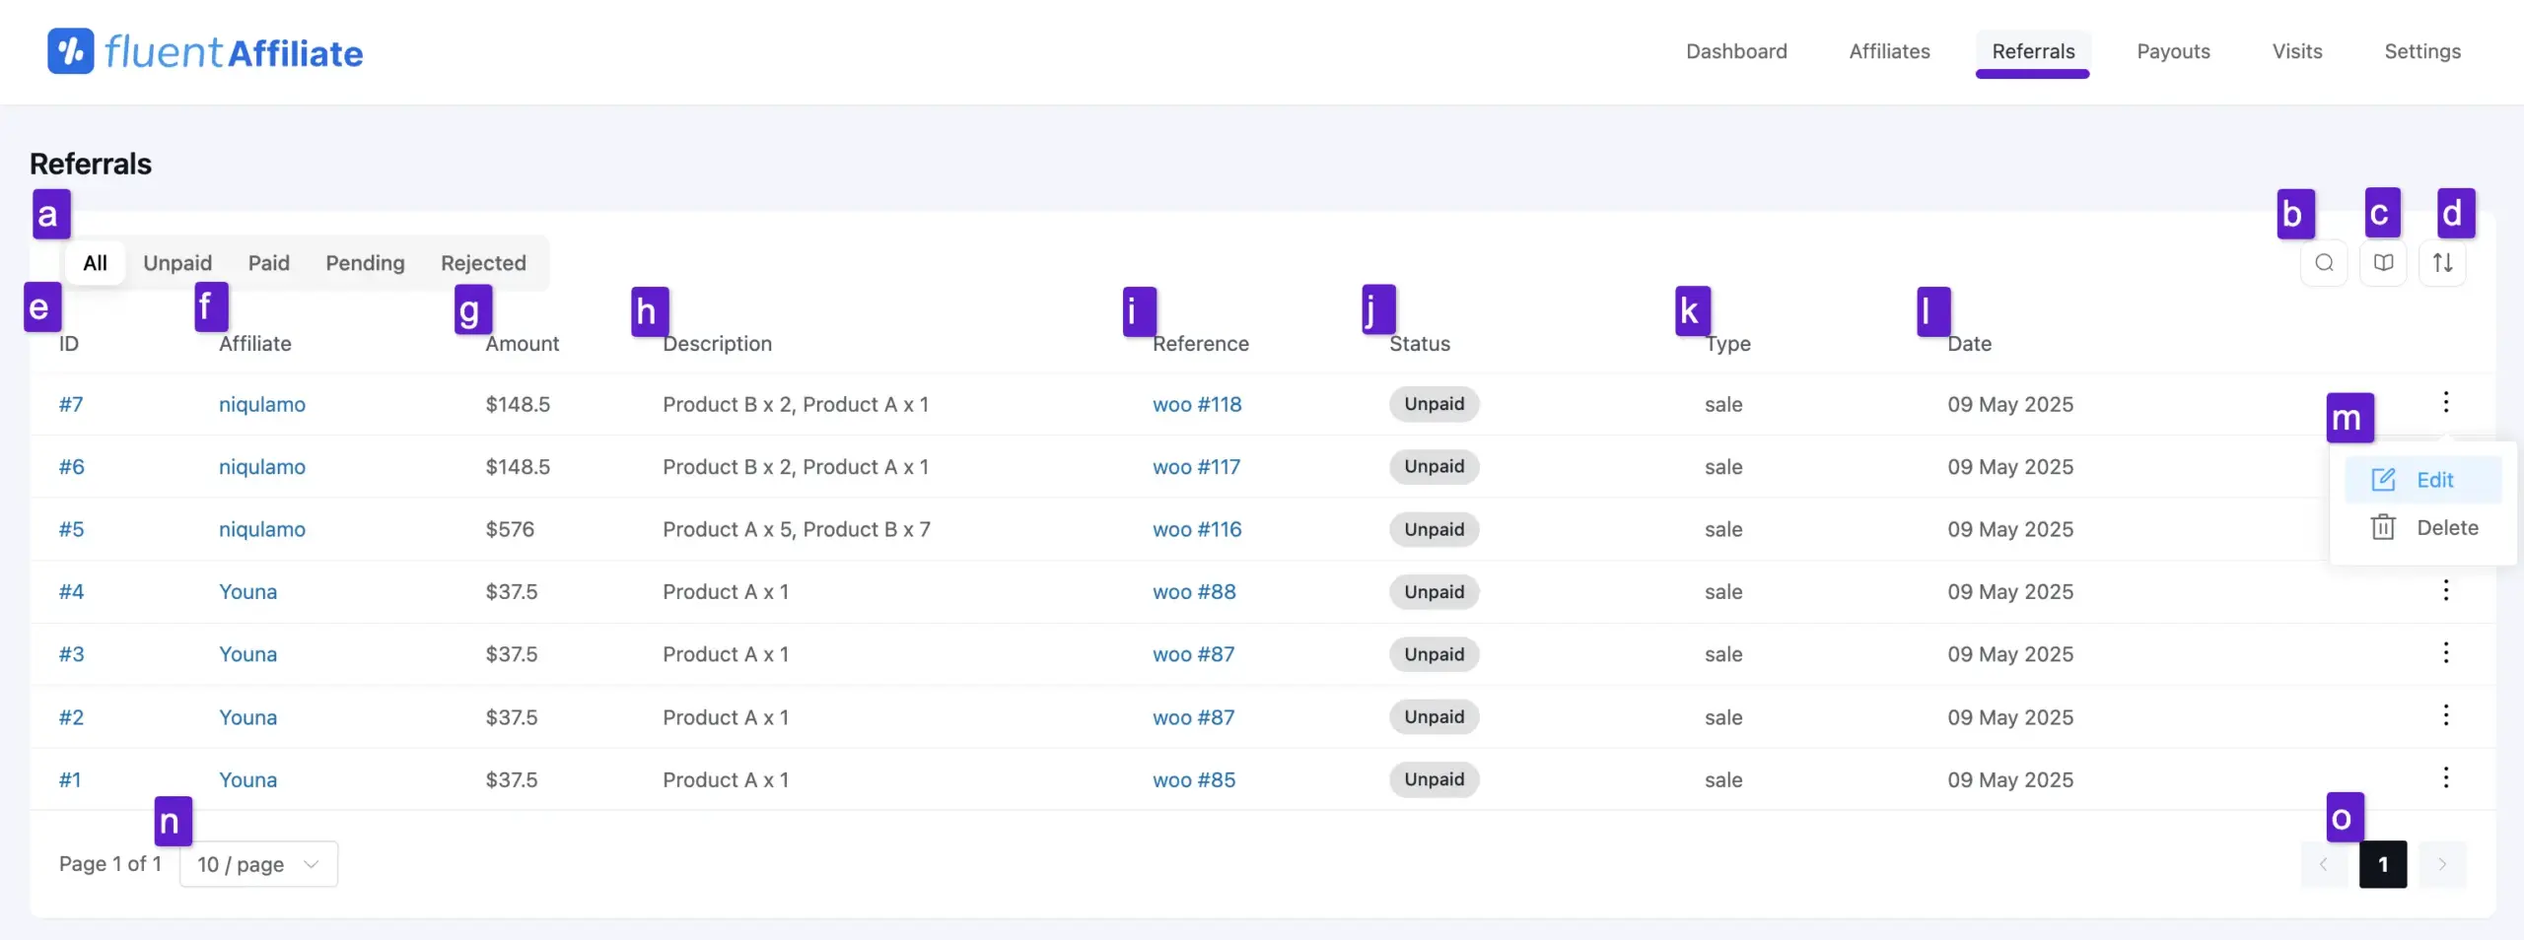
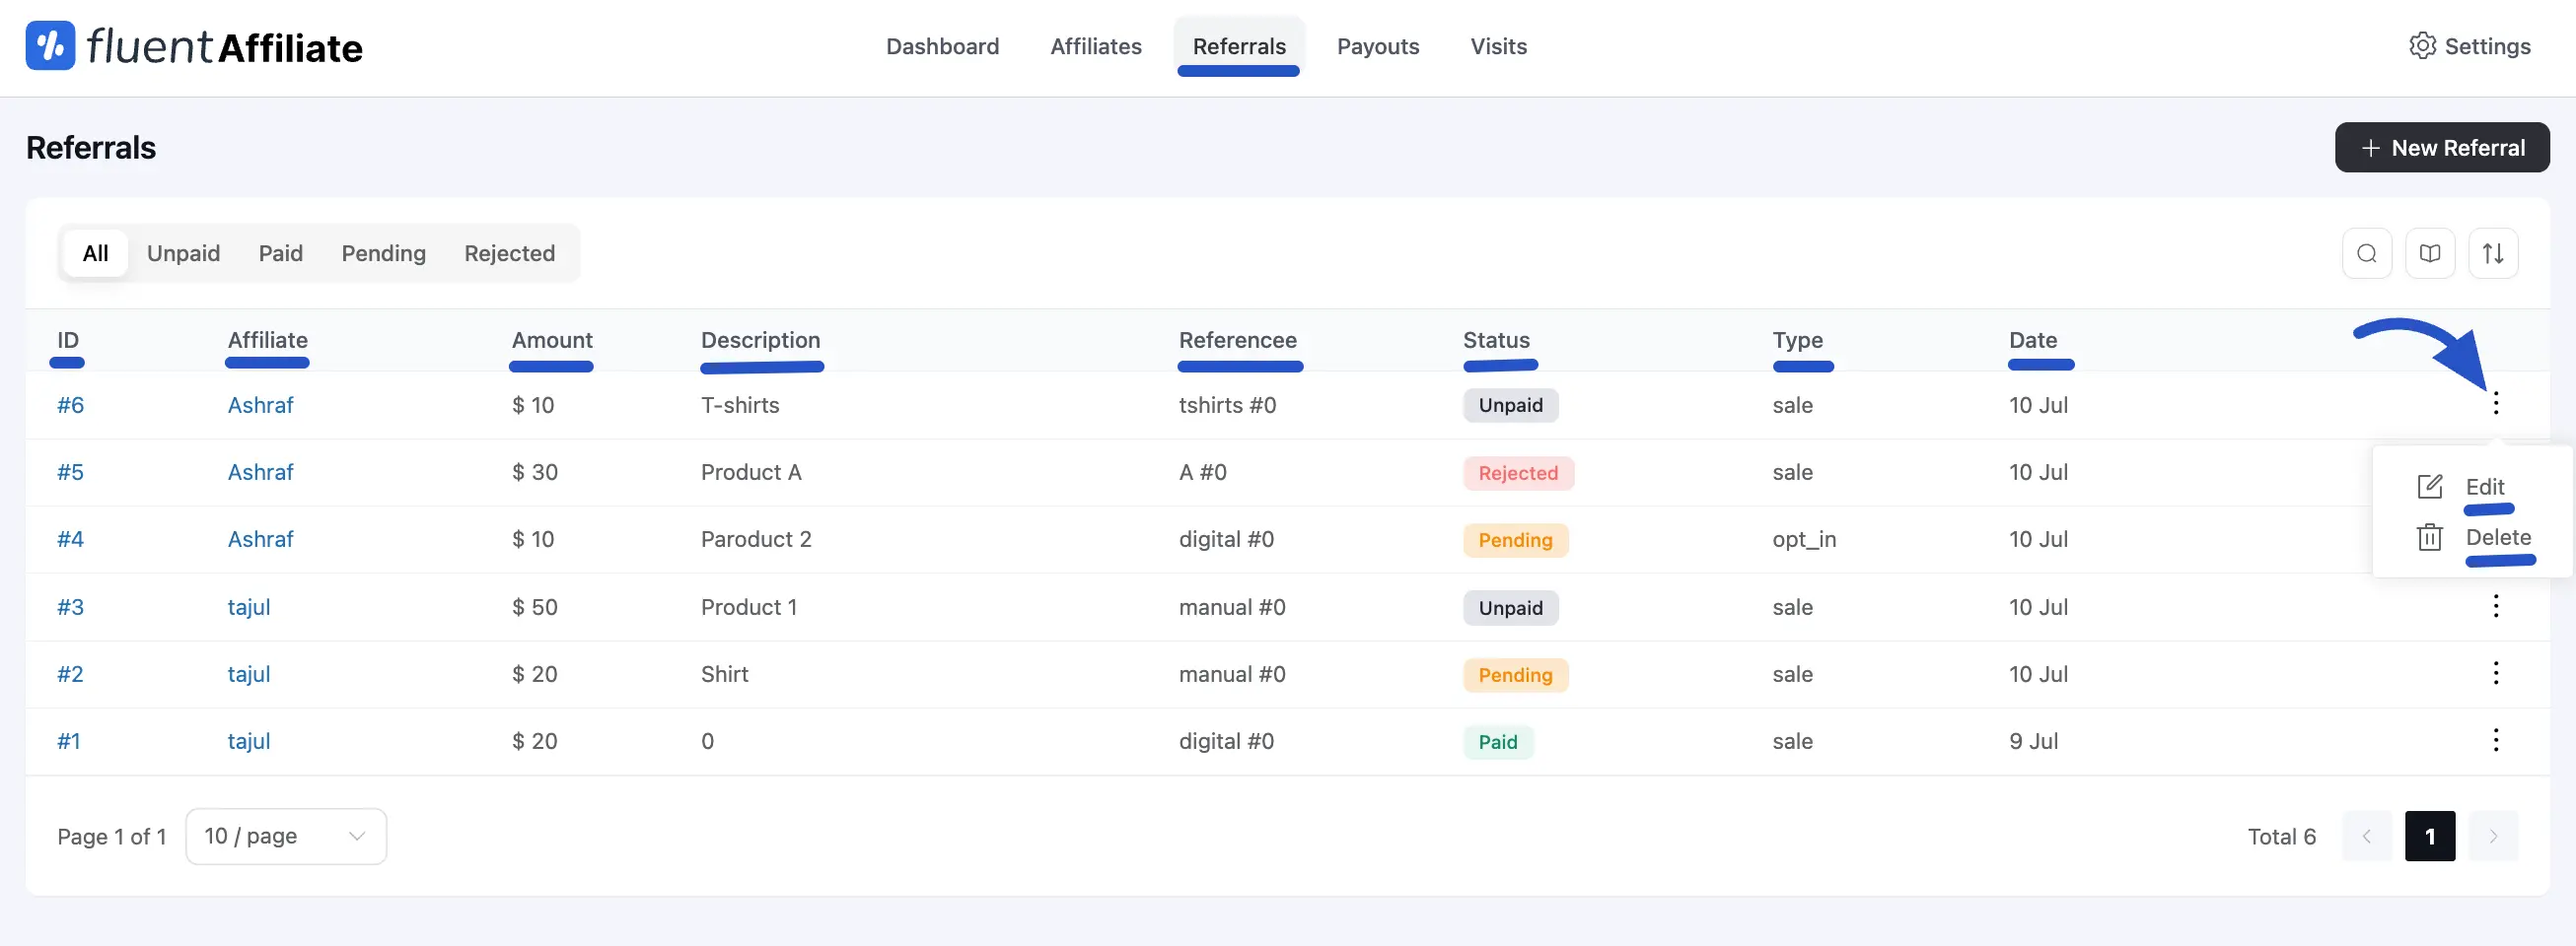
Update managing referral doc
-rewrite the description
-change all images
-add a new referral section description and images

diff --git a/guide/admin-portal/managing-referrals.md b/guide/admin-portal/managing-referrals.md
@@ -1,41 +1,78 @@
 # Managing Referrals
 
-FluentAffiliate displays your referrals in a single dashboard, it's an easy to use dashboard packed with tools to manage and track affiliate referrals. In this guide, we'll walk you through how referrals work and the features available to help you stay in control.
+FluentAffiliate gives you a clear and powerful dashboard to manage and track every affiliate referral. This is where you can see all successful conversions, review their status, and take action when needed.
 
-### Referral Dashboard
+In this guide, we'll walk you through the features of the Referrals page to help you stay in control.
 
-The Referral Dashboard in FluentAffiliate gives you all the tools you need to manage and track referral activity efficiently. Here's what each option does:
+## Referral Dashboard Overview
 
-**a. Filter**: Easily filter referrals by status — Unpaid, Paid, Pending, or Rejected.
+To get started, click on the **Referrals** tab from the main FluentAffiliate menu. This will take you to the main referrals dashboard.
 
-**b. Search**: Quickly find specific referrals by entering keywords or details.
+### Adding a New Referral
 
-**c. Column Selection**: Choose which columns you want to display in the referral table.
+At the top right, you'll see the **+ New Referral** button. This allows you to manually create a referral and assign it to an affiliate, which can be useful for offline sales or special cases.
 
-**d. Sort**: Sort your referrals by Amount, ID, or Reference in ascending or descending order. Don't forget to hit **Apply** after sorting.
+### Filtering Referrals by Status
 
-**e. ID**: Unique ID for each referral. Click it to view detailed information.
+Just below the page title, you can use the filter tabs to quickly view referrals based on their status:
+* **All:** Shows every referral that has ever been recorded. 
+* **Unpaid:** Shows approved referrals that are waiting to be included in a payout. 
+* **Paid:** Shows referrals for which commissions have already been paid to the affiliate. 
+* **Pending:** Shows new referrals that are awaiting your approval before they can be paid. 
+* **Rejected:** Shows any referrals that you have marked as rejected, meaning no commission will be paid for them.
 
-**f. Affiliate**: The username of the affiliate who generated the referral. If you click on this username, you will see the Profile of this affiliate with all the details.
+### Referrals Details Table
+The main table lists every referral with all the important details, giving you a transparent overview.
 
-**g. Amount**: Displays how much commission the affiliate earned for each referral.
-
-**h. Description**: Shows details about the product or service associated with the referral.
-
-**i. Reference**: The source or reference linked to the referral.
-
-**j. Status**: Indicates if the referral is **Paid**, **Pending**, or **Unpaid**.
-
-**k. Type**: Shows the source type that generated the commission.
-
-**l. Date**: Displays the date the referral was created.
-
-**m. Action Menu (Three Dots)**: Click here to **Edit** or **Delete** the referral.
-
-**n. Pagination**: Choose how many referrals to display per page.
-
-**o. Page Navigation**: Use the arrows to move between pages.
+* **ID:** A unique identification number for each referral.
+* **Affiliate:** The name of the affiliate who generated the referral. You can click on their name to view their full profile. 
+* **Amount:** The commission amount earned from that specific referral. 
+* **Description:** Details about the product or service that was purchased. 
+* **Reference:** A source or order ID linked to the referral. 
+* **Status:** The current status of the referral **Paid**, **Pending**, **Unpaid**, or **Rejected**. 
+* **Type:** The source of the commission, such as a product sale or a form submission. 
+* **Date:** The exact date the referral was created. 
 
 ![Referral Dashboard Overview](/guide/public/images/admin-portal/managing-referrals/referrals-list-overview.webp)
 
-This layout makes it simple to review, sort, and take action on all your affiliate referrals.
+### Managing Individual Referrals
+At the end of each referral's row is a three-dot menu that contains key actions:
+
+* **Edit:** Allows you to modify the details of the referral, such as its status or amount. 
+* **Delete:** Permanently removes the referral record. 
+
+### Search and Sort Tools
+
+* **Search bar**: Quickly find specific referrals by entering keywords or details.
+
+* **Column Selection**: Choose which columns you want to display in the referral table.
+
+* **Sort**: Sort your referrals by Amount, ID, or Reference in ascending or descending order. Don't forget to hit **Apply** after sorting.
+
+![Affiliate Search and Sort Tools](/guide/public/images/admin-portal/managing-referrals/search-and-sort-tools.webp)
+
+### Add a New Referral
+
+Want to manually add an referral to your site? 
+
+First, click the **New Referral** button. 
+
+![Add New Referral Button](/guide/public/images/admin-portal/managing-referrals/add-new-referral-button.webp)
+
+After clicking the button, a form will slide in from the right side of your screen. Here, you'll need to fill in the details for the new referral.
+
+* **Select Affiliate:** Start typing the name of the affiliate you want to credit and select them from the list. This is the most important field.
+* **Type:** Choose the type of referral from the dropdown menu (e.g., Sale, Opt-in).
+* **Amount:** Enter the exact commission amount the affiliate will earn for this referral.
+* **Status:** Set the initial status of the referral. You can choose from Unpaid, Paid, Pending, or Rejected.
+* **Description:** Add a short note or description for your own records, explaining why this referral was added manually (e.g., "Manual entry for phone order #5512").
+* **Source (Optional):** You can enter a source slug here to provide extra context about where the referral came from (e.g., manual_sale).
+* **Provider ID (Optional):** If this referral corresponds to an order in another system (like WooCommerce), you can enter the Order ID here to link them for easy reference.
+
+Once you have filled in all the necessary details, click the **Create Manual Referral** button at the bottom of the form.
+
+The new referral will be instantly created and will appear in your main referrals list, assigned to the affiliate you selected.
+
+![Create Manual Referral](/guide/public/images/admin-portal/managing-referrals/create-manual-referral.webp)
+
+That's it! Your new referral will now appear in the list.
